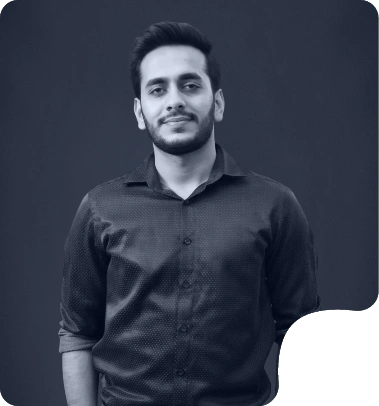
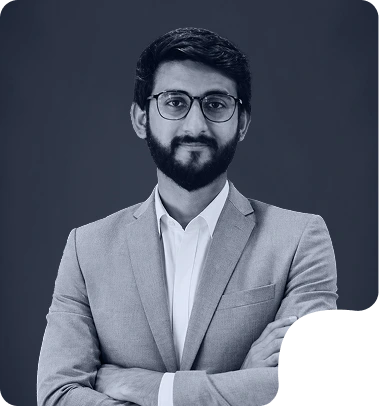
Update team member details and replace images in OurTeam component

diff --git a/components/OurTeam/theteam.tsx b/components/OurTeam/theteam.tsx
@@ -11,14 +11,14 @@ const teamSections = [
         linkedin: "https://www.linkedin.com/in/zu33air/",
       },
       {
-        name: "Malik Ehtram Ali",
-        role: "Business Unit Head",
+        name: "Hussain Shaja",
+        role: "Upwork Team Lead.",
         img: "/assets/rd-image162.webp",
         linkedin: "https://www.linkedin.com/in/malik-ehtram-240918216/",
       },
       {
-        name: "Ghulam Akber",
-        role: "Sr. Sales Support Executive",
+        name: "Ibrahim Zafar",
+        role: "Upwork Bidding Expert",
         img: "/assets/rd-image168.webp",
         linkedin: "https://www.linkedin.com/in/ghulam-akbar-3887b5228/",
       },
